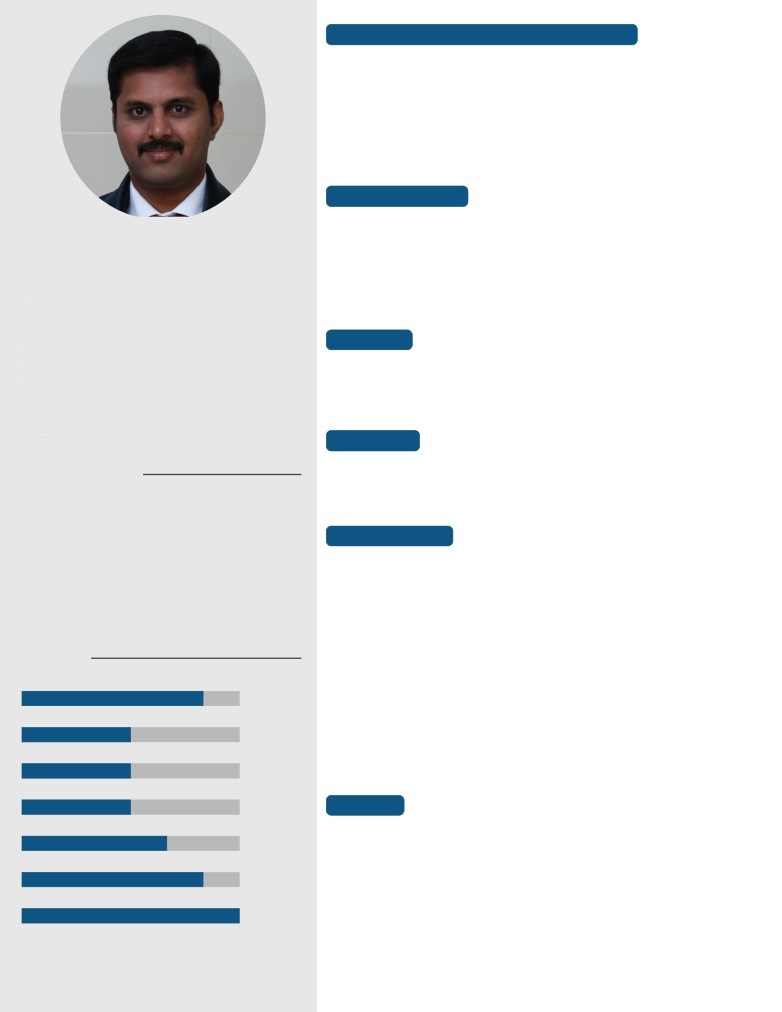
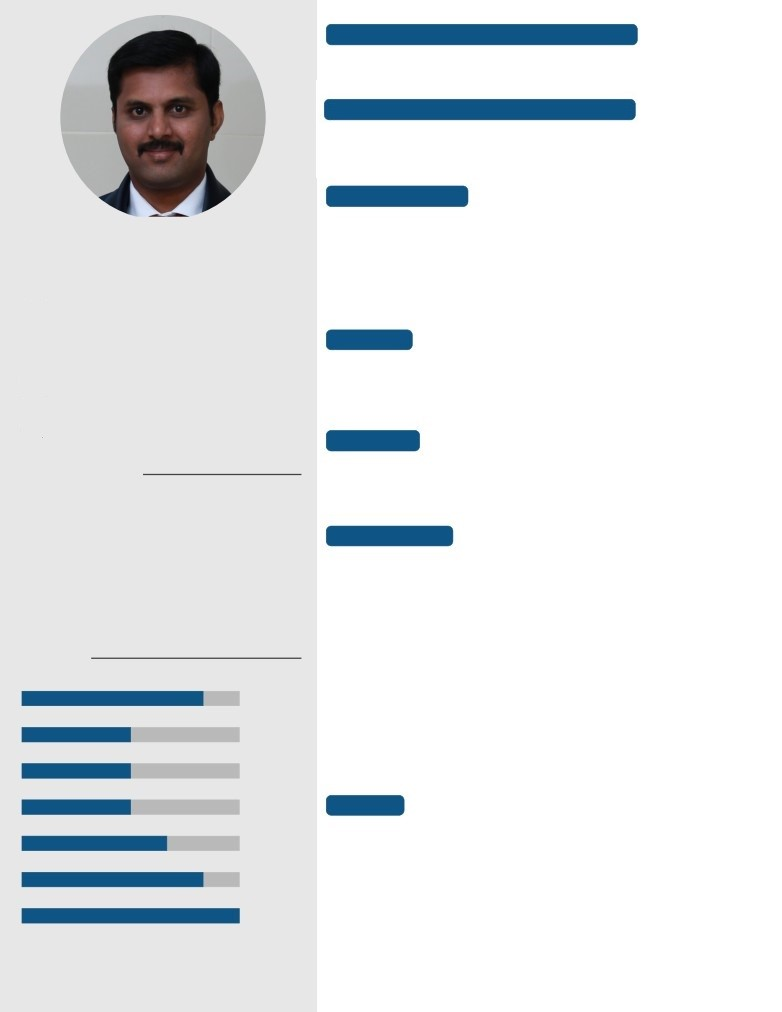
Added current position

Changed region(s): [[0.399, 0.0919, 0.8286, 0.1225]]

diff --git a/index.html b/index.html
@@ -35,7 +35,7 @@ div.cls_009{font-family:Arial,serif;font-size:10.0px;color:rgb(204,204,204);font
 <div style="position:absolute;left:255.12px;top:38.74px" class="cls_003"><span class="cls_003">Staff Engineer - Clinical Developement</span></div>
 <div style="position:absolute;left:255.12px;top:50.70px" class="cls_003"><span class="cls_003">Stryker Global Technology Center</span></div>
 <div style="position:absolute;left:255.12px;top:62.65px" class="cls_003"><span class="cls_003">Bengaluru</span></div>
-<div style="position:absolute;left:256.91px;top:75.43px" class="cls_002"><span class="cls_007">Post Graduation (2019 - 2022)</span></div>
+<div style="position:absolute;left:256.91px;top:75.43px" class="cls_002"><span class="cls_002">Post Graduation (2019 - 2022)</span></div>
 <div style="position:absolute;left:255.12px;top:97px" class="cls_003"><span class="cls_003">Masters in Medical Science and Technology</span></div>
 <div style="position:absolute;left:255.12px;top:109px" class="cls_003"><span class="cls_003">School of Medical Science and Technology</span></div>
 <div style="position:absolute;left:255.12px;top:122px" class="cls_003"><span class="cls_003">IIT Kharagpur</span></div>
